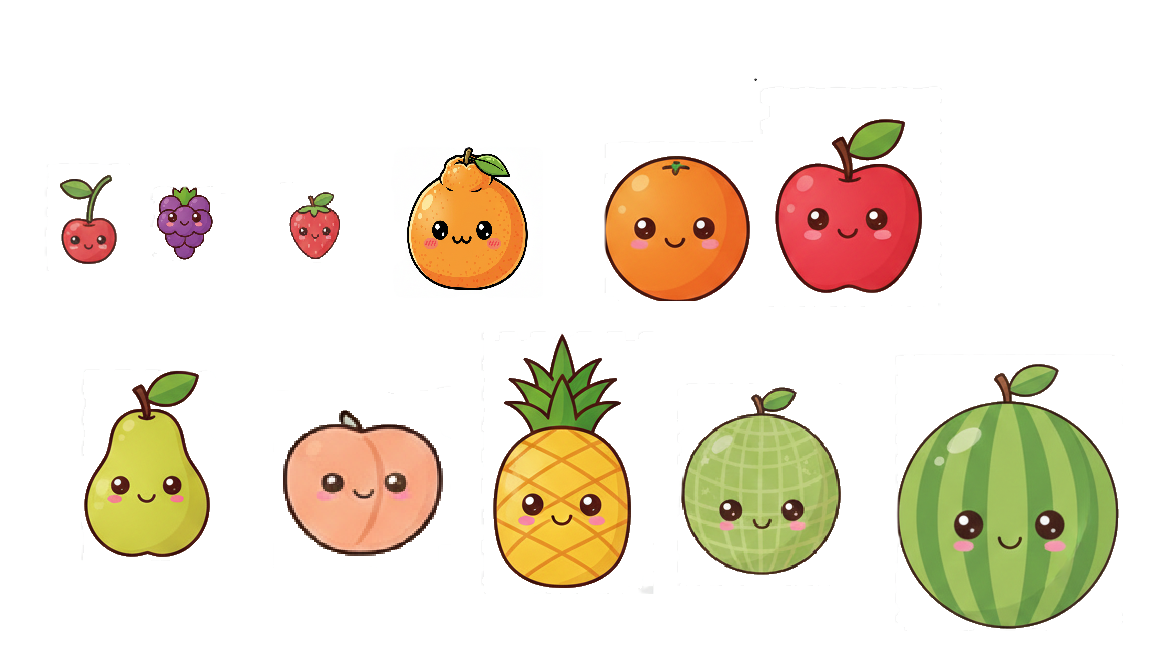
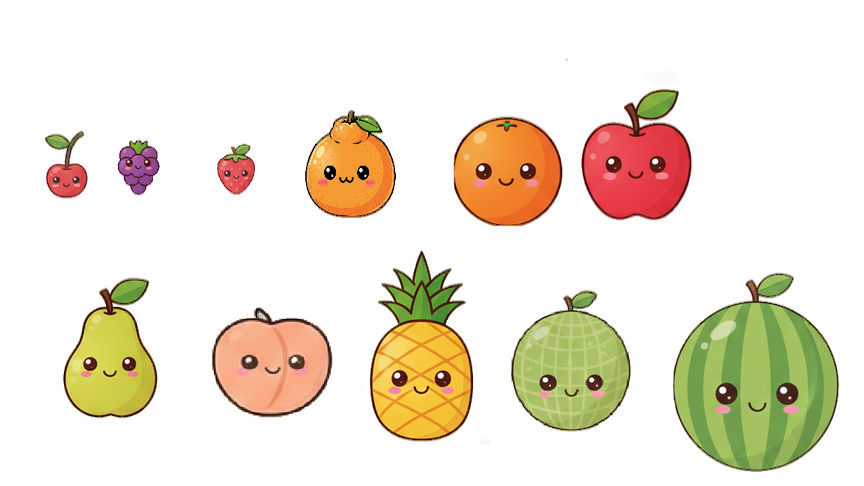
fix: physics correction and assets changements

diff --git a/suika/src/core/game.c b/suika/src/core/game.c
@@ -59,17 +59,18 @@ static Texture2D suika_loadTexture(const char* path)
 }
 
 static const FruitProperties_St FRUIT_PROPS[FRUIT_TYPE_COUNT] = {
-    {20.0f,  {255, 0, 0, 255},       10,   {46,  162, 83,  110}},
-    {25.0f,  {128, 0, 128, 255},     30,   {148, 180, 71,  83}},
-    {30.0f,  {255, 100, 100, 255},   20,   {277, 180, 71,  83}},
-    {35.0f,  {255, 165, 0, 255},     50,   {392, 137, 141, 163}},
-    {40.0f,  {255, 140, 0, 255},     40,   {599, 138, 160, 169}},
-    {45.0f,  {255, 0, 0, 255},       60,   {755, 79,  193, 232}},
-    {50.0f,  {173, 255, 47, 255},    70,   {74,  362, 144, 205}},
-    {55.0f,  {255, 218, 185, 255},   80,   {266, 376, 194, 201}},
-    {60.0f,  {255, 215, 0, 255},     90,   {476, 324, 190, 276}},
-    {70.0f,  {144, 238, 144, 255},   100,  {675, 377, 179, 210}},
-    {80.0f,  {34, 139, 34, 255},     150,  {886, 346, 239, 294}}
+    // {radius,  color,           points,  {x,   y,   w,   h}}
+    {22.5f,  {255, 0, 0, 255},       10,   {44,  130,  45,  70}},   // cherry
+    {22.0f,  {128, 0, 128, 255},     30,   {116, 136,  44,  64}},   // grape
+    {20.0f,  {255, 100, 100, 255},   20,   {216, 143,  40,  57}},   // strawberry
+    {48.0f,  {255, 165, 0, 255},      50,   {304, 109,  96, 113}},   // small_orange
+    {56.5f,  {255, 140, 0, 255},     40,   {451, 114, 113, 117}},   // big_orange
+    {57.0f,  {255, 0, 0, 255},       60,   {579,  88, 114, 134}},   // apple
+    {51.0f,  {173, 255, 47, 255},    70,   {58,  277, 102, 146}},   // pear
+    {56.5f,  {255, 218, 185, 255},   80,   {210, 305, 123, 113}},   // peach
+    {53.0f,  {255, 215, 0, 255},      90,   {369, 248, 106, 194}},   // pineapple
+    {61.0f,  {144, 238, 144, 255},   100,   {510, 288, 122, 144}},   // melon
+    {84.0f,  {34, 139, 34, 255},     150,   {672, 272, 168, 200}}   // watermelon
 };
 
 const FruitProperties_St* suika_getFruitProperties(FruitType_Et type)
@@ -110,6 +111,12 @@ void suika_init(SuikaGame_St* game)
     game->highScore = 0;
     game->isGameOver = false;
     game->gravity = 800.0f;
+
+    // Initialisation des nouvelles fonctionnalités
+    game->autoDropEnabled = false;
+    game->scoreMultiplierEnabled = true;
+    game->boostCooldown = 0.0f;
+    game->baseDropCooldown = 1.0f;
 
     for (int i = 0; i < SUIKA_MAX_FRUITS; i++)
     {
@@ -171,13 +178,32 @@ void suika_update(SuikaGame_St* game, float deltaTime)
         return;
     }
 
+    // Gestion de la touche P pour activer/désactiver le mode auto-drop
+    if (IsKeyPressed(KEY_P))
+    {
+        game->autoDropEnabled = !game->autoDropEnabled;
+        game->scoreMultiplierEnabled = !game->autoDropEnabled; // Désactive le score en mode auto-drop
+    }
+
+    // Mise à jour du cooldown du boost
+    if (game->boostCooldown > 0.0f)
+    {
+        game->boostCooldown -= deltaTime;
+    }
+
     Vector2 mousePos = GetMousePosition();
     float minX = SUIKA_CONTAINER_X + game->nextFruit.radius;
     float maxX = SUIKA_CONTAINER_X + SUIKA_CONTAINER_WIDTH - game->nextFruit.radius;
     game->nextFruitX = Clamp(mousePos.x, minX, maxX);
     game->nextFruit.position.x = game->nextFruitX;
 
-    if (IsMouseButtonPressed(MOUSE_LEFT_BUTTON))
+    // Mode auto-drop : spawn automatique des fruits
+    if (game->autoDropEnabled && game->canDrop)
+    {
+        suika_dropFruit(game);
+    }
+    // Mode normal : clic pour drop
+    else if (IsMouseButtonPressed(MOUSE_LEFT_BUTTON))
     {
         suika_dropFruit(game);
     }
@@ -189,7 +215,9 @@ void suika_update(SuikaGame_St* game, float deltaTime)
     if (!game->canDrop)
     {
         game->dropTimer += deltaTime;
-        if (game->dropTimer > 1.0f)
+        // En mode auto-drop, le délai est réduit par 4
+        float currentCooldown = game->autoDropEnabled ? game->baseDropCooldown / 4.0f : game->baseDropCooldown;
+        if (game->dropTimer > currentCooldown)
         {
             game->canDrop = true;
             game->dropTimer = 0.0f;
@@ -361,7 +389,11 @@ void suika_checkMerging(SuikaGame_St* game)
                                 game->fruits[k].isMerging = false;
                                 game->fruits[k].id = game->nextFruitId++;
 
-                                game->score += props->points;
+                                // Ajouter le score seulement si le multiplicateur est activé
+                                if (game->scoreMultiplierEnabled)
+                                {
+                                    game->score += props->points;
+                                }
 
                                 f1->isActive = false;
                                 f2->isActive = false;

diff --git a/suika/include/utils/suika_atlas.h b/suika/include/utils/suika_atlas.h
@@ -1,0 +1,94 @@
+/*
+ * suika_atlas.h
+ * Atlas de sprites pour le jeu Suika
+ * Image source : assets_suika.png (864 x 486 px)
+ *
+ * Chaque entrée contient :
+ *   name   – identifiant du fruit
+ *   x, y   – coin supérieur gauche dans la texture (pixels)
+ *   w, h   – largeur / hauteur du sprite (pixels)
+ *   level  – niveau du fruit (1 = plus petit → 11 = plus grand)
+ */
+
+#ifndef SUIKA_ATLAS_H
+#define SUIKA_ATLAS_H
+
+#include <stddef.h>   /* size_t */
+
+/* ------------------------------------------------------------------ */
+/*  Types                                                               */
+/* ------------------------------------------------------------------ */
+
+typedef struct {
+    const char *name;   /* nom du fruit            */
+    int         x;      /* origine X  (px)         */
+    int         y;      /* origine Y  (px)         */
+    int         w;      /* largeur    (px)         */
+    int         h;      /* hauteur    (px)         */
+    int         level;  /* niveau dans le jeu      */
+} SuikaSprite;
+
+/* ------------------------------------------------------------------ */
+/*  Dimensions de la texture source                                    */
+/* ------------------------------------------------------------------ */
+
+#define SUIKA_ATLAS_WIDTH   864
+#define SUIKA_ATLAS_HEIGHT  486
+#define SUIKA_ATLAS_FILE    "assets_suika.png"
+
+/* ------------------------------------------------------------------ */
+/*  Atlas – 11 fruits, du plus petit au plus grand                     */
+/* ------------------------------------------------------------------ */
+
+#define SUIKA_FRUIT_COUNT 11
+
+static const SuikaSprite SUIKA_ATLAS[SUIKA_FRUIT_COUNT] = {
+    /*  name             x    y    w    h   level  */
+    { "cherry",         44, 130,  45,  70,   1 },
+    { "grape",         116, 136,  44,  64,   2 },
+    { "strawberry",    216, 143,  40,  57,   3 },
+    { "small_orange",  304, 109,  96, 113,   4 },
+    { "big_orange",    451, 114, 113, 117,   5 },
+    { "apple",         579,  88, 114, 134,   6 },
+    { "pear",           58, 277, 102, 146,   7 },
+    { "peach",         210, 305, 123, 113,   8 },
+    { "pineapple",     369, 248, 106, 194,   9 },
+    { "melon",         510, 288, 122, 144,  10 },
+    { "watermelon",    672, 272, 168, 200,  11 },
+};
+
+/* ------------------------------------------------------------------ */
+/*  Utilitaires inline                                                  */
+/* ------------------------------------------------------------------ */
+
+/**
+ * suika_get_sprite – retrouve un sprite par nom.
+ * Retourne NULL si non trouvé.
+ */
+static inline const SuikaSprite *
+suika_get_sprite(const char *name)
+{
+    for (size_t i = 0; i < SUIKA_FRUIT_COUNT; i++) {
+        /* strcmp manuel pour éviter d'importer <string.h> si non voulu */
+        const char *a = SUIKA_ATLAS[i].name;
+        const char *b = name;
+        while (*a && *a == *b) { a++; b++; }
+        if (*a == '\0' && *b == '\0')
+            return &SUIKA_ATLAS[i];
+    }
+    return NULL;
+}
+
+/**
+ * suika_get_by_level – retrouve un sprite par niveau (1–11).
+ * Retourne NULL si hors plage.
+ */
+static inline const SuikaSprite *
+suika_get_by_level(int level)
+{
+    if (level < 1 || level > SUIKA_FRUIT_COUNT)
+        return NULL;
+    return &SUIKA_ATLAS[level - 1];
+}
+
+#endif /* SUIKA_ATLAS_H */

diff --git a/suika/include/utils/types.h b/suika/include/utils/types.h
@@ -13,6 +13,7 @@
 
 #include "common.h"
 #include "APIs/generalAPI.h"
+#include "suika_atlas.h"
 
 /**
     @brief Enumeration of all fruit types in the Suika game.
@@ -108,6 +109,12 @@ struct SuikaGame_St
     bool isGameOver;                /**< Whether game has ended */
     float gameOverTimer;            /**< Time since game over */
     float gravity;                  /**< Gravity acceleration in pixels/second^2 */
+    
+    // Fonctionnalité capacité 'P' - Auto-drop avec score désactivé
+    bool autoDropEnabled;           /**< Mode dépôt automatique activé (touche P) */
+    bool scoreMultiplierEnabled;    /**< Multiplicateur de score actif (désactivé pendant auto-drop) */
+    float boostCooldown;            /**< Temps de recharge du boost */
+    float baseDropCooldown;         /**< Temps de base entre les dépôts (1 seconde) */
 };
 
 typedef struct SuikaGame_St SuikaGame_St;
